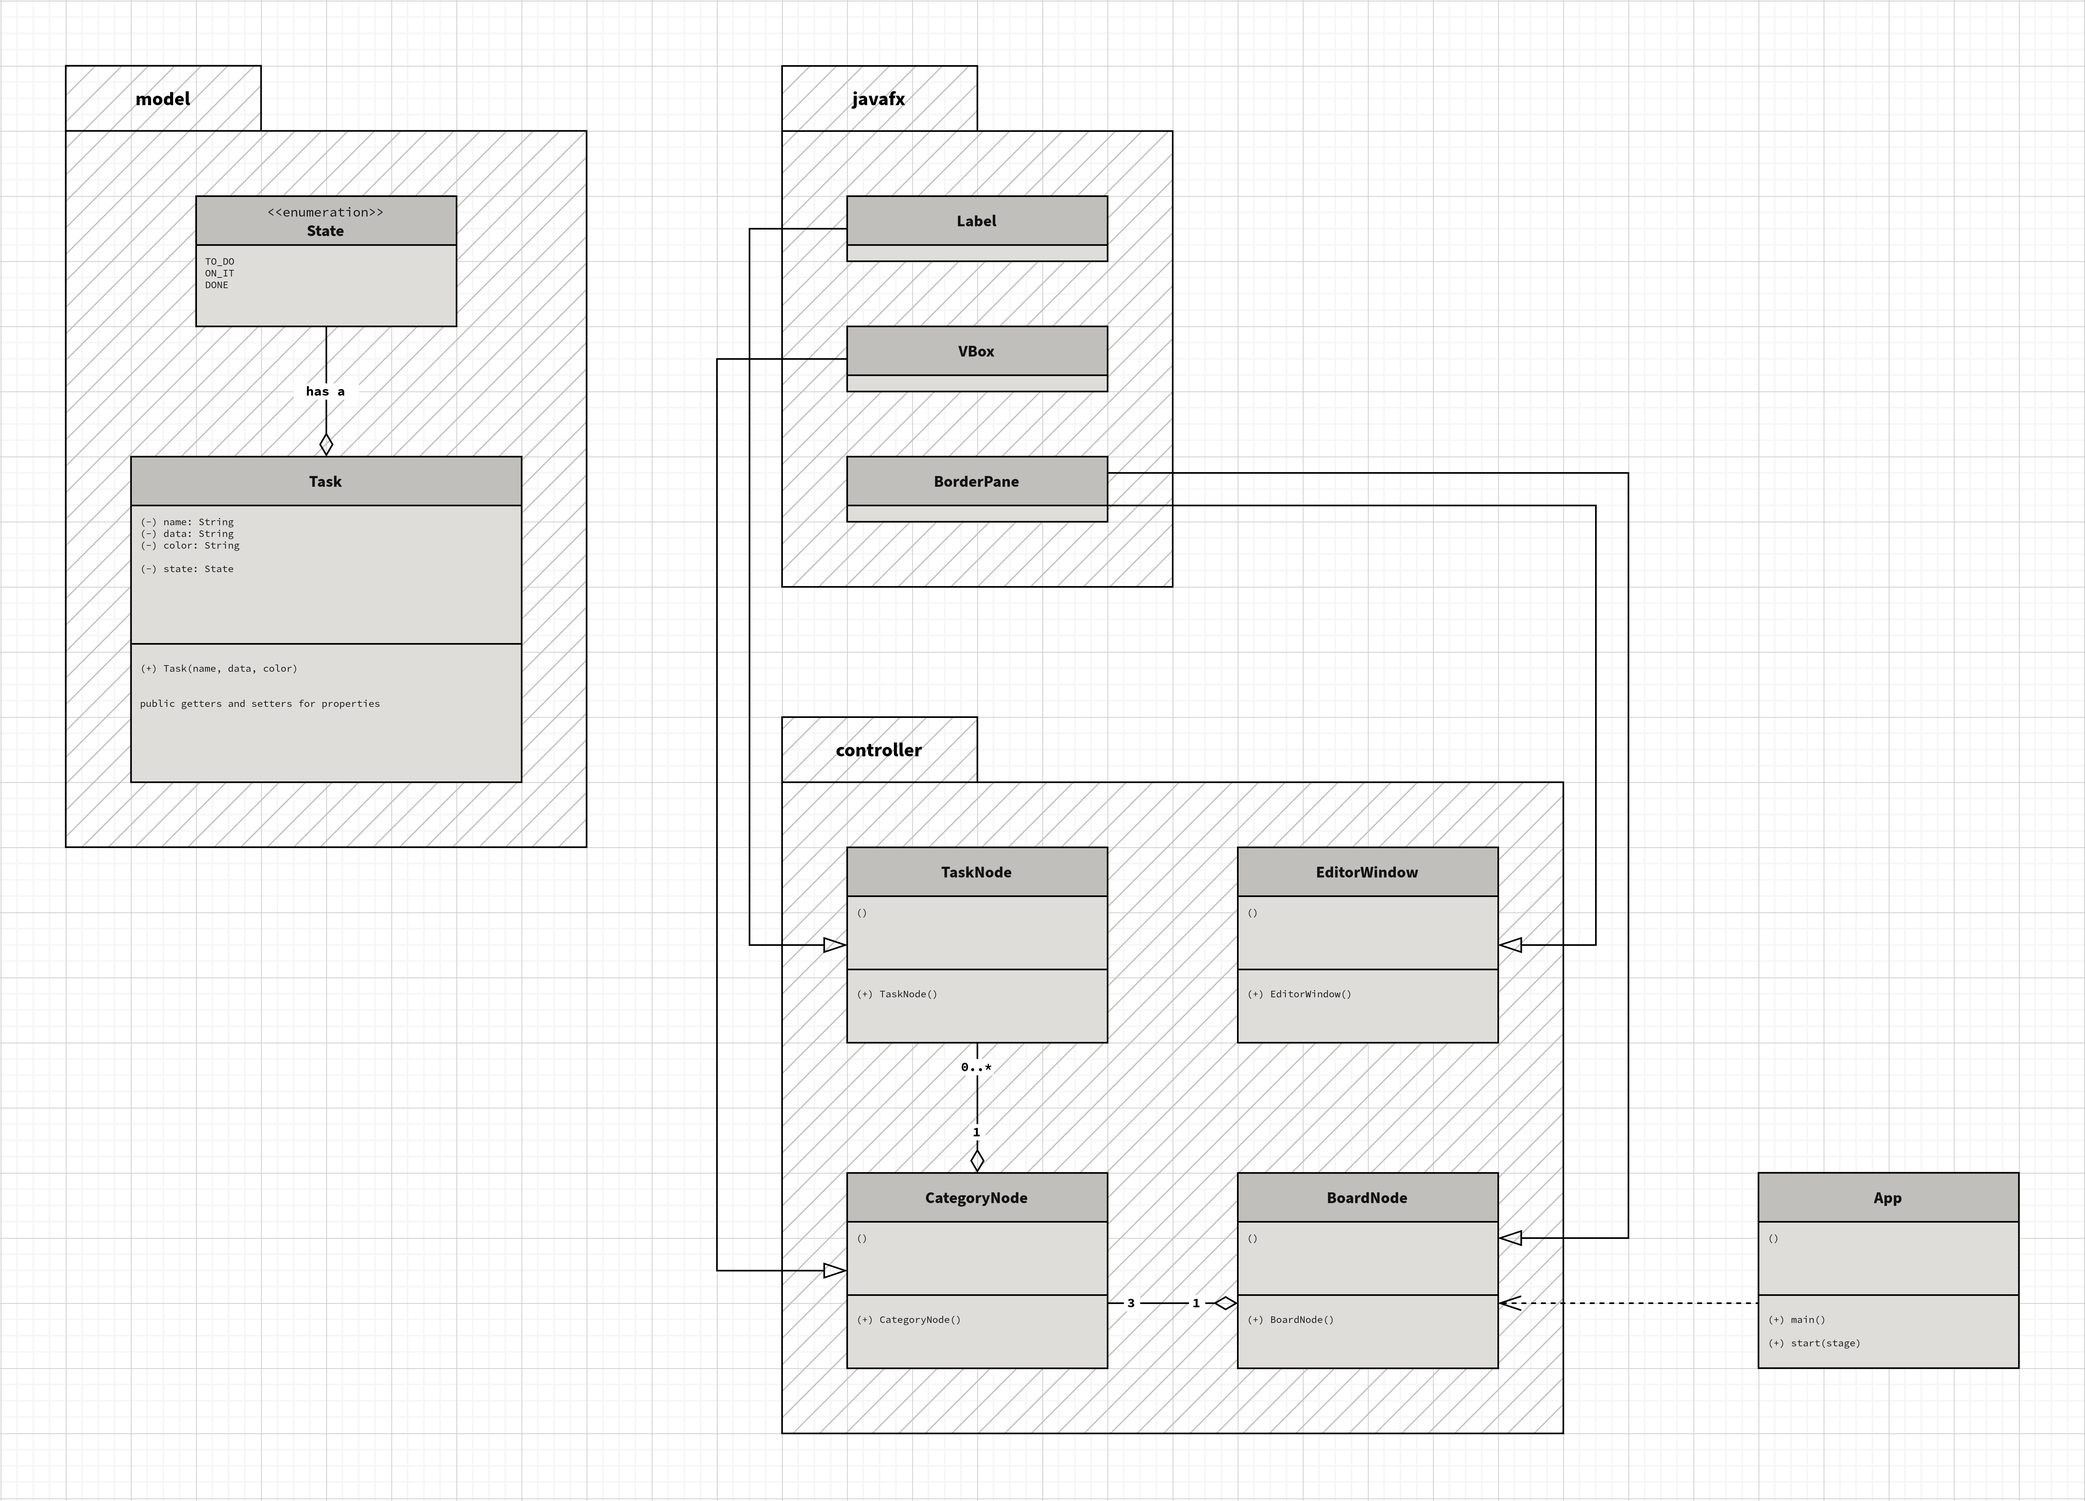
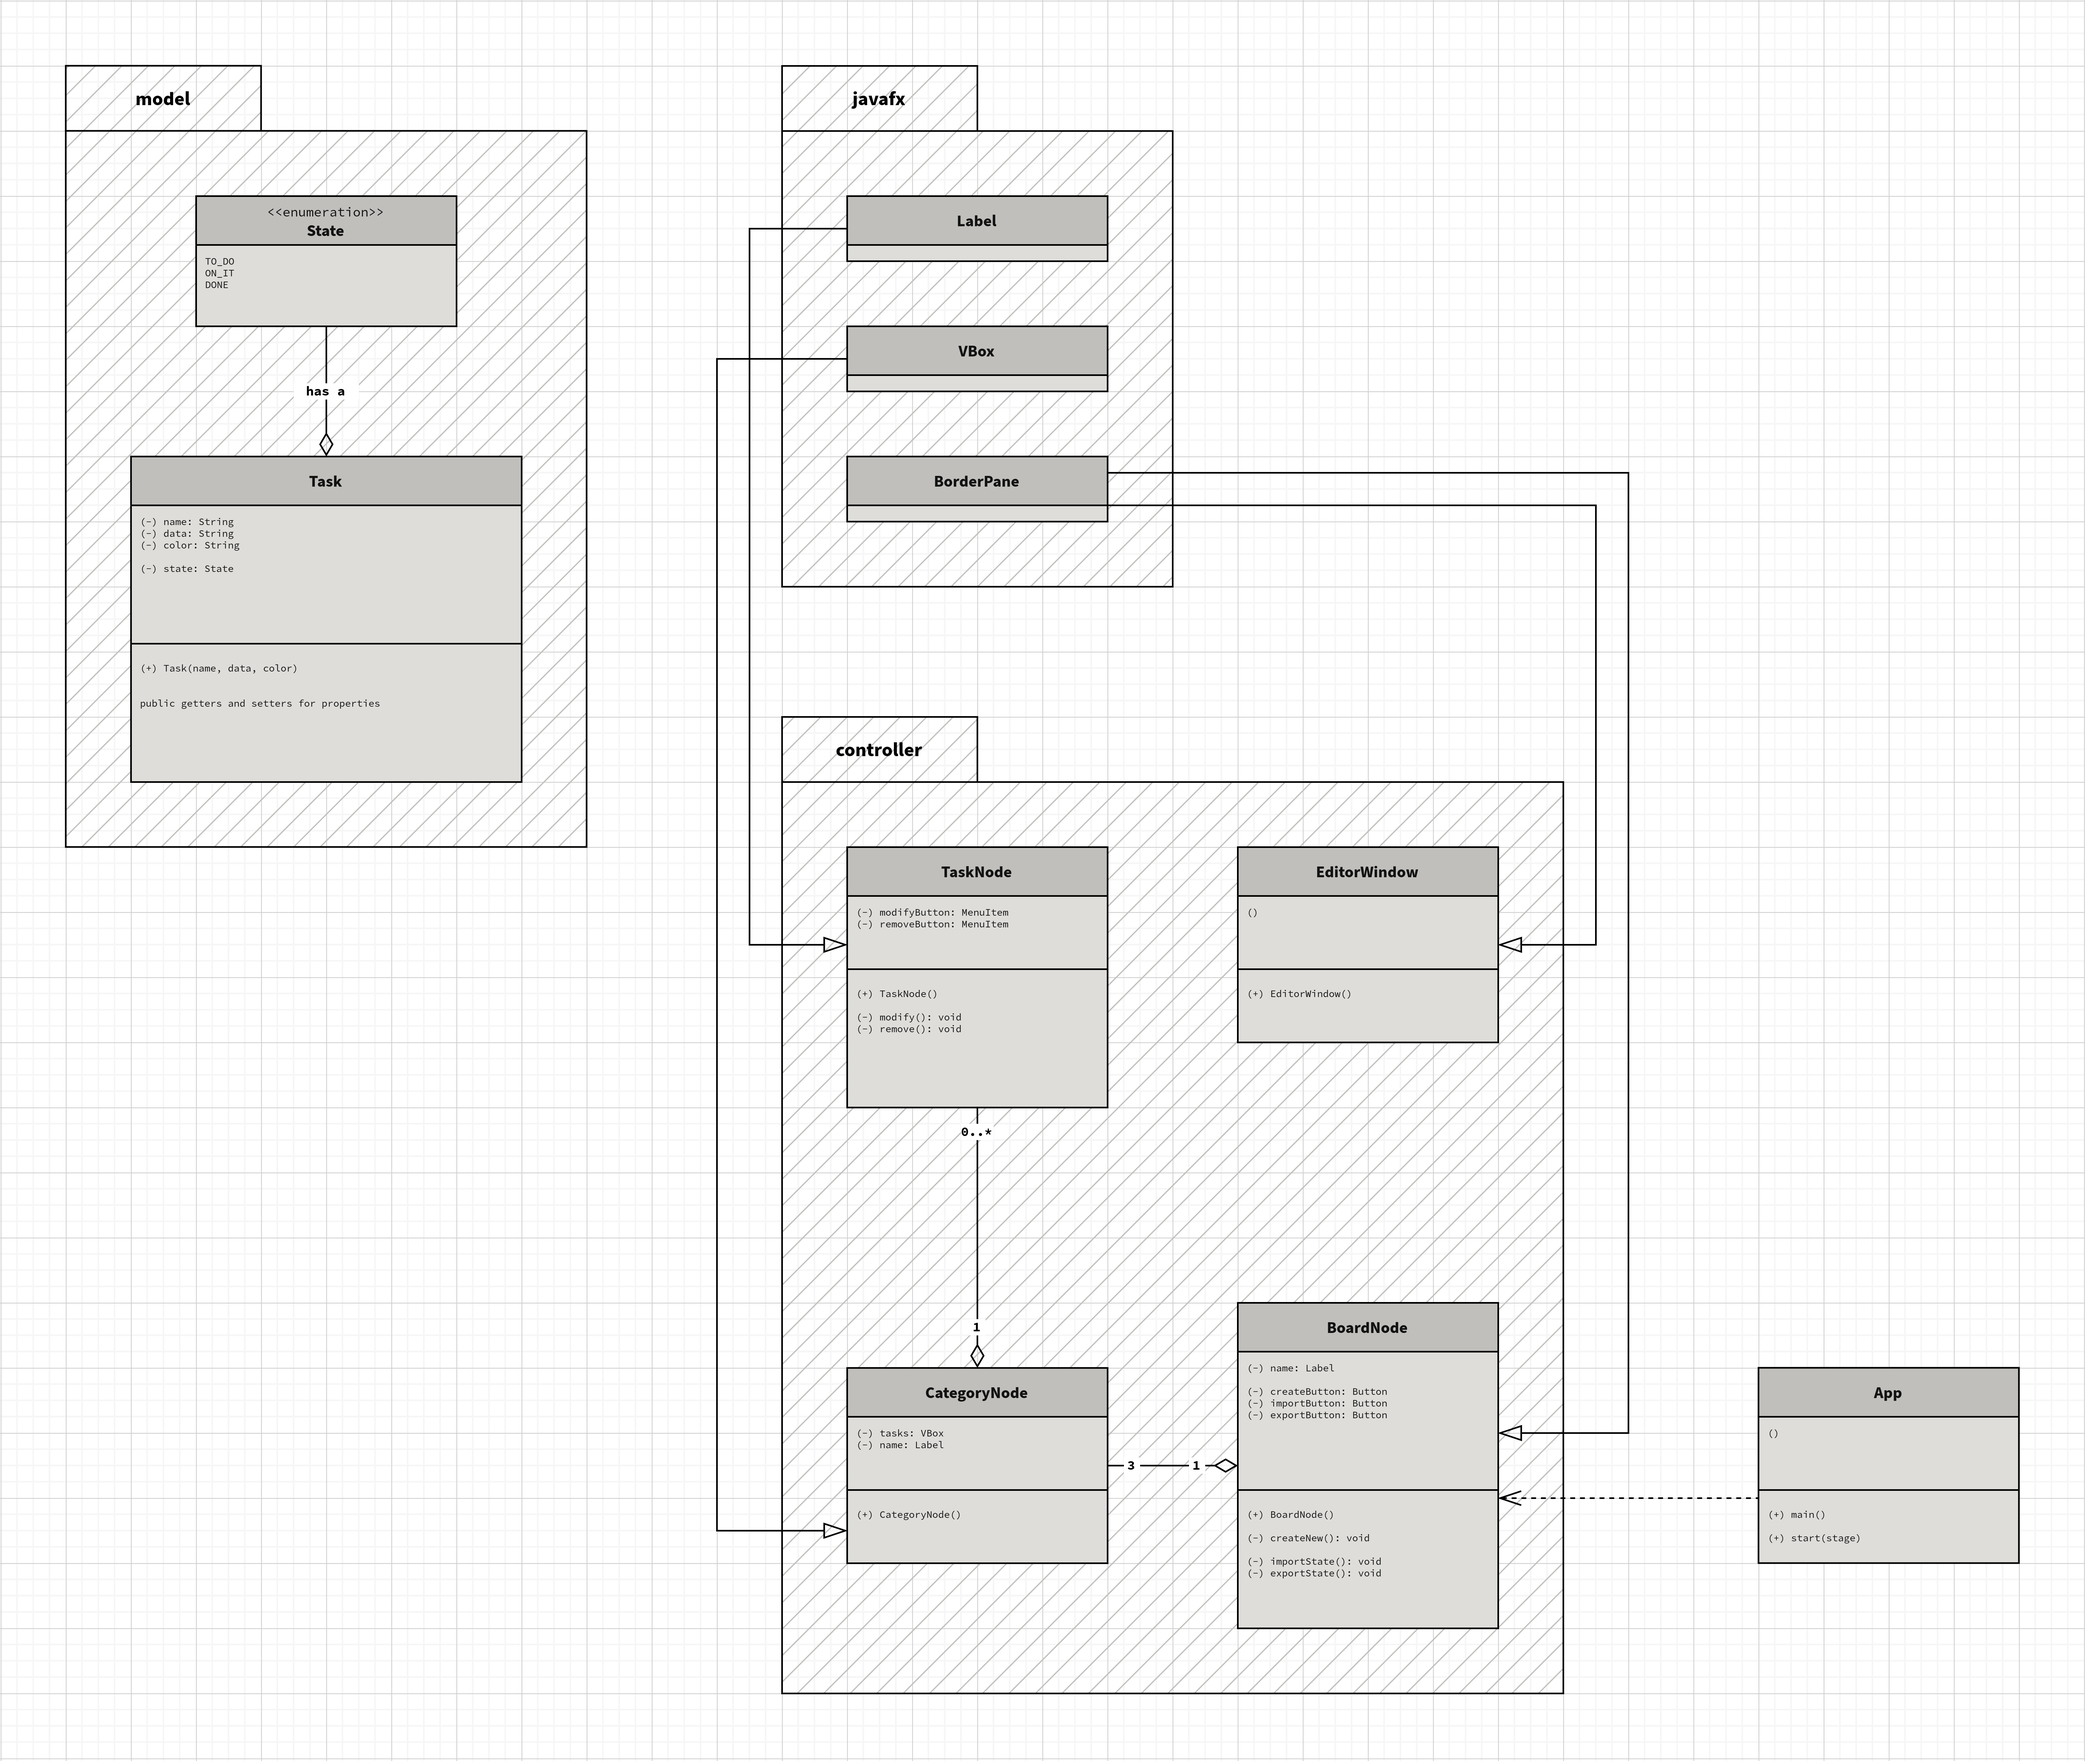
[REFACTOR](/code/kanban/controller): Refactor related to event handling
[FEATURE](/docs): Update UML diagram to better reflect `controller` package API

diff --git a/code/kanban/controller/TaskNode.java b/code/kanban/controller/TaskNode.java
@@ -10,14 +10,13 @@ import javafx.scene.control.MenuItem;
 
 import javafx.scene.input.ClipboardContent;
 import javafx.scene.input.Dragboard;
-import javafx.scene.input.DragEvent;
 import javafx.scene.input.MouseEvent;
 import javafx.scene.input.TransferMode;
 
 public class TaskNode extends Label
 {
-	private @FXML MenuItem modify;
-	private @FXML MenuItem remove;
+	private @FXML MenuItem modifyButton;
+	private @FXML MenuItem removeButton;
 	
 	public TaskNode()
 	{
@@ -32,42 +31,15 @@ public class TaskNode extends Label
 			
 			this.setText("task");
 			
+			this.modifyButton.setOnAction((ActionEvent event) -> { this.modify(); event.consume(); });
+			this.removeButton.setOnAction((ActionEvent event) -> { this.remove(); event.consume(); });
+			
 			this.setOnDragDetected((MouseEvent event) -> {
 				Dragboard dragger = this.startDragAndDrop(TransferMode.MOVE);
-				{
-					ClipboardContent content = new ClipboardContent();
-					
-					content.putString("");
-					dragger.setContent(content);
-				}
+				ClipboardContent content = new ClipboardContent();
 				
-				event.consume();
-			});
-			
-			this.setOnDragDone((DragEvent event) -> {
-				switch(event.getTransferMode())
-				{
-					case TransferMode.MOVE:
-					{
-						System.out.println("task move done");
-					} break;
-					
-					default:
-					{
-					}
-				}
-				
-				event.consume();
-			});
-			
-			this.modify.setOnAction((ActionEvent event) -> {
-				System.out.println("modify task");
-				
-				event.consume();
-			});
-			
-			this.remove.setOnAction((ActionEvent event) -> {
-				System.out.println("remove task");
+				content.putString("");
+				dragger.setContent(content);
 				
 				event.consume();
 			});
@@ -77,5 +49,15 @@ public class TaskNode extends Label
 		{
 			exception.printStackTrace();
 		}
+	}
+	
+	private void modify()
+	{
+		System.out.println("modify");
+	}
+	
+	private void remove()
+	{
+		System.out.println("remove");
 	}
 }

diff --git a/code/kanban/controller/BoardNode.java b/code/kanban/controller/BoardNode.java
@@ -14,8 +14,8 @@ public class BoardNode extends BorderPane
 {
 	private @FXML Label name;
 	
-	private @FXML Button importButton;
 	private @FXML Button createButton;
+	private @FXML Button importButton;
 	private @FXML Button exportButton;
 	
 	public BoardNode()
@@ -31,22 +31,29 @@ public class BoardNode extends BorderPane
 			
 			this.name.setText("board");
 			
-			this.importButton.setOnAction((ActionEvent event) -> {
-				System.out.println("import button");
-			});
-			
-			this.createButton.setOnAction((ActionEvent event) -> {
-				System.out.println("create button");
-			});
-			
-			this.exportButton.setOnAction((ActionEvent event) -> {
-				System.out.println("export button");
-			});
+			this.createButton.setOnAction((ActionEvent event) -> { this.createNew(); event.consume(); });
+			this.importButton.setOnAction((ActionEvent event) -> { this.importState(); event.consume(); });
+			this.exportButton.setOnAction((ActionEvent event) -> { this.exportState(); event.consume(); });
 		}
 		
 		catch(Exception exception)
 		{
 			exception.printStackTrace();
 		}
+	}
+	
+	private void createNew()
+	{
+		System.out.println("create new");
+	}
+	
+	private void importState()
+	{
+		System.out.println("import state");
+	}
+	
+	private void exportState()
+	{
+		System.out.println("export state");
 	}
 }

diff --git a/code/kanban/controller/CategoryNode.java b/code/kanban/controller/CategoryNode.java
@@ -28,6 +28,9 @@ public class CategoryNode extends VBox
 			
 			this.name.setText("category");
 			
+			this.setOnDragExited((DragEvent event) -> { this.setFocused(false); event.consume(); });
+			this.setOnDragEntered((DragEvent event) -> { this.setFocused(true); event.consume(); });
+			
 			this.setOnDragOver((DragEvent event) -> {
 				event.acceptTransferModes(TransferMode.MOVE);
 				
@@ -38,18 +41,6 @@ public class CategoryNode extends VBox
 				System.out.println("dropped item: " + ((TaskNode) event.getGestureSource()).getText());
 				
 				event.setDropCompleted(true);
-				event.consume();
-			});
-			
-			this.setOnDragEntered((DragEvent event) -> {
-				this.setFocused(true);
-				
-				event.consume();
-			});
-			
-			this.setOnDragExited((DragEvent event) -> {
-				this.setFocused(false);
-				
 				event.consume();
 			});
 		}

diff --git a/code/kanban/controller/EditorWindow.java b/code/kanban/controller/EditorWindow.java
@@ -1,7 +1,5 @@
 package kanban.controller;
 
-import javafx.event.ActionEvent;
-
 import javafx.fxml.FXML;
 import javafx.fxml.FXMLLoader;
 
